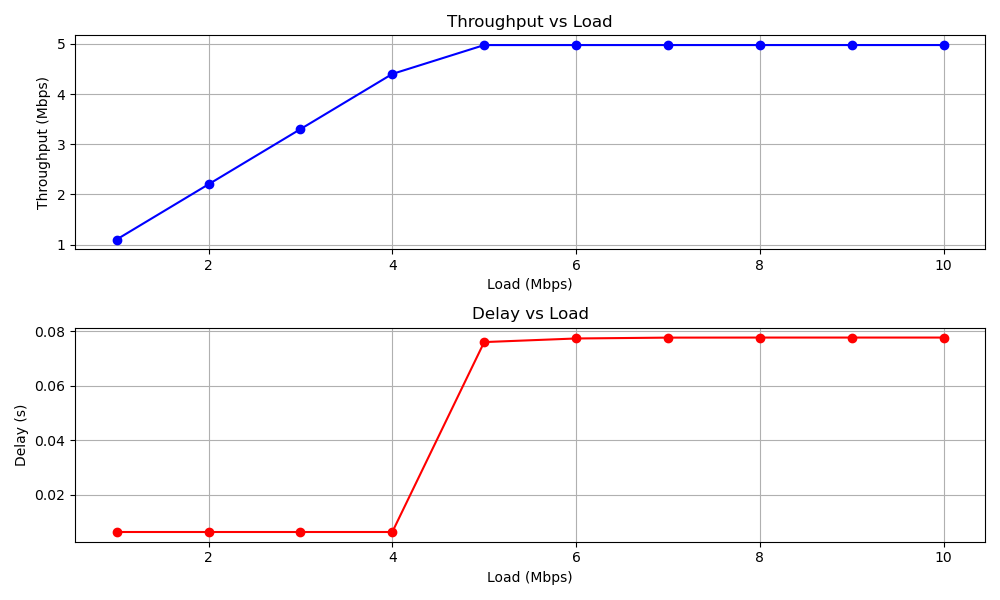
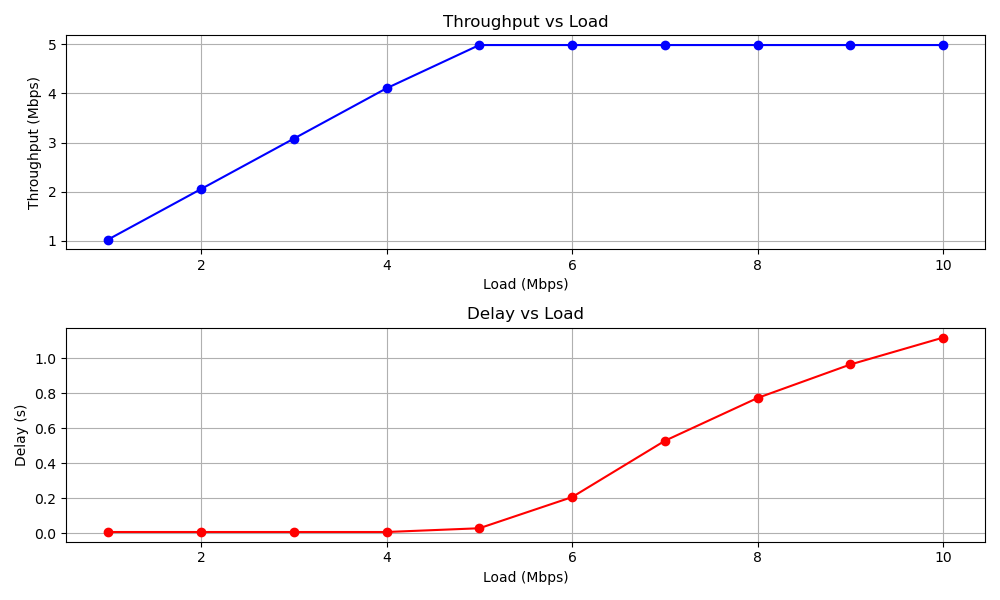
changed TCP app to UDP app to prevent cong control

diff --git a/partA.cc b/partA.cc
@@ -10,7 +10,7 @@
 using namespace ns3;
 
 #ifndef SIM_END
-#define SIM_END 10.0
+#define SIM_END 5.0
 #endif
 
 NS_LOG_COMPONENT_DEFINE("PartA");
@@ -27,15 +27,15 @@ void RxTrace(Ptr<const Packet> packet, const Address& address) {
     g_delays.push_back(Simulator::Now().GetMilliSeconds());
 }
 
-void CalculateStats() {
-    double throughput = (g_totalBytesReceived * 8.0) / (g_lastRxTime.GetSeconds() * 1000000.0);
+void CalculateDelay() {
+    // double throughput = (g_totalBytesReceived * 8.0) / (g_lastRxTime.GetSeconds() * 1000000.0);
     double avgDelay = 0;
     if (!g_delays.empty()) {
         avgDelay = std::accumulate(g_delays.begin(), g_delays.end(), 0.0) / g_delays.size();
     }
 
-    std::cout << "Results:" << std::endl;
-    std::cout << "Throughput: " << throughput << " Mbps" << std::endl;
+    // std::cout << "Results:" << std::endl;
+    // std::cout << "Throughput: " << throughput << " Mbps" << std::endl;
     std::cout << "Average Delay: " << avgDelay << " ms" << std::endl;
     std::cout << "Total Bytes Received: " << g_totalBytesReceived << std::endl;
 
@@ -53,6 +53,7 @@ void RunSimulation(int load, std::ofstream & outFile) {
     PointToPointHelper p2p;
     p2p.SetDeviceAttribute("DataRate", StringValue("5Mbps")); // Set high enough to handle 10 Mbps load
     p2p.SetChannelAttribute("Delay", StringValue("2ms"));
+    p2p.SetQueue("ns3::DropTailQueue", "MaxSize", StringValue("10p")); // fifo queue in every connection
 
     // Install devices
     NetDeviceContainer devices1 = p2p.Install(nodes.Get(0), nodes.Get(1));  // A to B
@@ -73,16 +74,16 @@ void RunSimulation(int load, std::ofstream & outFile) {
     // Enable routing
     Ipv4GlobalRoutingHelper::PopulateRoutingTables();
 
-    // Create TCP application
+    // Create UDP application
     uint16_t port = 8080;
-    PacketSinkHelper sink("ns3::TcpSocketFactory",
+    PacketSinkHelper sink("ns3::UdpSocketFactory",
                          InetSocketAddress(interfaces2.GetAddress(1), port));
     ApplicationContainer sinkApp = sink.Install(nodes.Get(2));  // Node C
     sinkApp.Start(Seconds(0.0));
     sinkApp.Stop(Seconds(SIM_END));
 
-    // Configure TCP sender
-    OnOffHelper source("ns3::TcpSocketFactory",
+    // Configure UDP sender
+    OnOffHelper source("ns3::UdpSocketFactory",
                          InetSocketAddress(interfaces2.GetAddress(1), port));
     // source.SetAttribute("MaxBytes", UintegerValue(load * 1000000));  // Convert to bytes
     source.SetAttribute("DataRate", DataRateValue(DataRate(std::to_string(load) + "Mbps"))); // Set exact load
@@ -129,6 +130,8 @@ void RunSimulation(int load, std::ofstream & outFile) {
         std::cout << "  Load: " << load << " Mbps\n";
         std::cout << "  Throughput: " << throughput << " Mbps\n";
         std::cout << "  Average Delay: " << delay << " s\n";
+        // std::cout << "Calculate Delay Res: " << "\n";
+        // CalculateDelay();
         outFile << iter->first << "," << load << "," << throughput << "," << delay << "\n";
     // }
 
